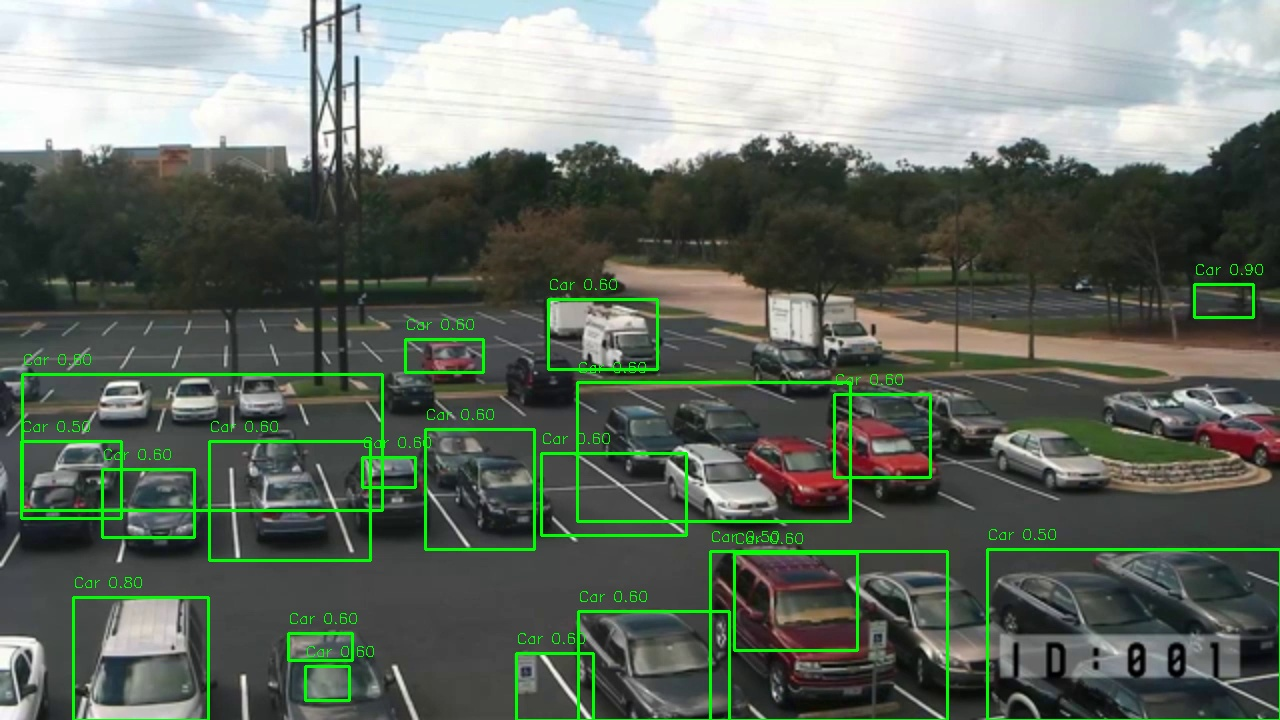
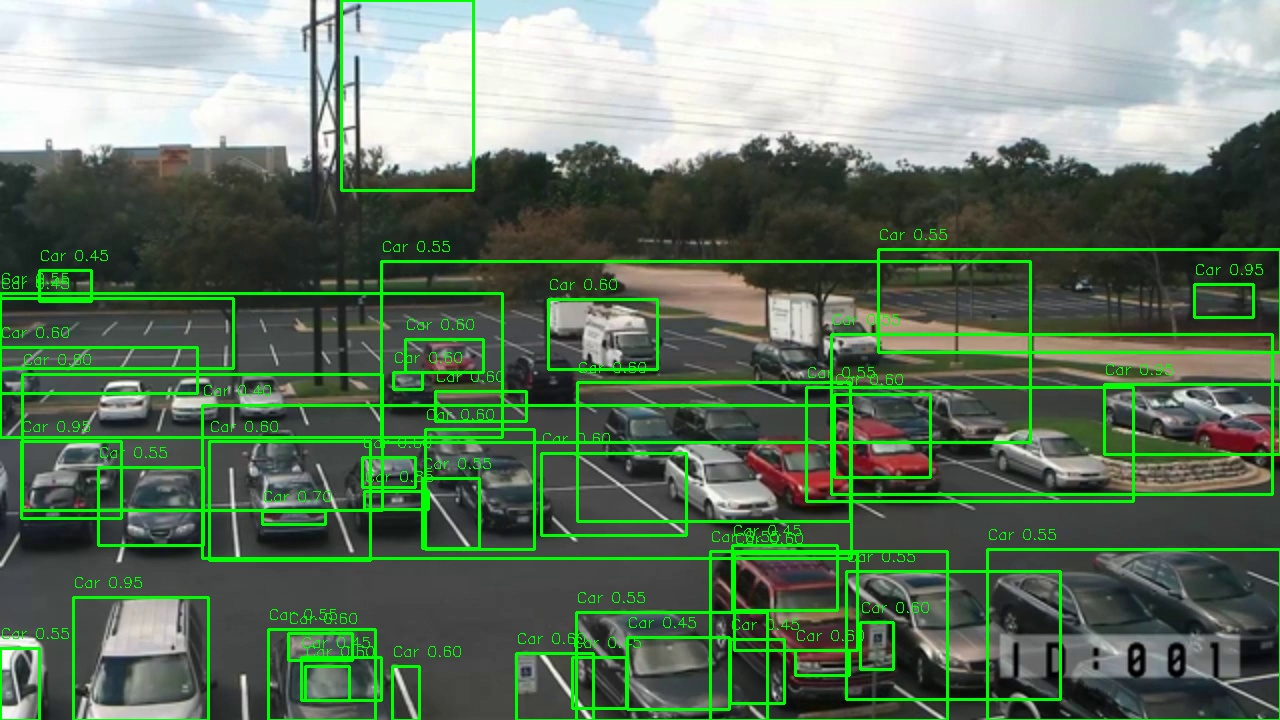
Improve car detection accuracy and enable AI test button interaction
Update car detection thresholds and aspect ratio filtering in VideoProcessor to detect more cars, and make the "Test AI Detection" button clickable by setting pointerEvents to auto.

Replit-Commit-Author: Agent
Replit-Commit-Session-Id: c78fb24b-5ae6-43ba-a055-cf65a605386f
Replit-Commit-Checkpoint-Type: full_checkpoint
Replit-Commit-Screenshot-Url: https://storage.googleapis.com/screenshot-production-us-central1/9d3f2e57-95f6-488e-9d63-4405ed21fbdc/c78fb24b-5ae6-43ba-a055-cf65a605386f/hgNAHdL

diff --git a/src/App.js b/src/App.js
@@ -327,14 +327,21 @@ function App() {
           <Heading as="h1" size="lg" color={"yellow.500"} lineHeight="1">Smart</Heading>
         </VStack>
         
-        <VStack spacing={2}>
+        <VStack spacing={2} pointerEvents="auto">
           <Heading as="h1" size="lg" color={"yellow.500"} lineHeight="1">AIM-IT</Heading>
           <Button 
             size="sm" 
             colorScheme="blue" 
-            onClick={() => setShowAITest(!showAITest)}
+            onClick={(e) => {
+              e.stopPropagation()
+              setShowAITest(!showAITest)
+            }}
             bg='whiteAlpha.900'
             color="blue.600"
+            cursor="pointer"
+            pointerEvents="auto"
+            _hover={{ bg: 'blue.100' }}
+            fontWeight="bold"
           >
             {showAITest ? 'Hide' : 'Test'} AI Detection
           </Button>

diff --git a/backend/ai_detection/video_processor.py b/backend/ai_detection/video_processor.py
@@ -305,9 +305,9 @@ class VideoProcessor:
         # Method 2: Template matching for car-like rectangles
         height, width = frame.shape[:2]
         
-        # Adaptive area thresholds based on image size
-        min_area = (width * height) * 0.0008  # 0.08% of image
-        max_area = (width * height) * 0.05    # 5% of image
+        # MUCH MORE AGGRESSIVE thresholds to find ALL 38 cars
+        min_area = (width * height) * 0.0003  # 0.03% of image (much smaller)
+        max_area = (width * height) * 0.08    # 8% of image (much larger)
         
         # Enhanced contour filtering for cars
         for i, contour in enumerate(contours):
@@ -317,11 +317,11 @@ class VideoProcessor:
                 # Get bounding rectangle
                 x, y, w, h = cv2.boundingRect(contour)
                 
-                # Enhanced aspect ratio filtering
+                # MUCH MORE PERMISSIVE aspect ratio filtering for ALL cars including partial ones
                 aspect_ratio = w / h if h > 0 else 0
                 
-                # Cars can vary in perspective, so broader aspect ratio
-                if 0.8 < aspect_ratio < 3.5 and w > 25 and h > 15:
+                # Accept almost any rectangular shape (including partial cars)
+                if 0.3 < aspect_ratio < 5.0 and w > 15 and h > 10:
                     # Calculate multiple shape metrics
                     perimeter = cv2.arcLength(contour, True)
                     hull = cv2.convexHull(contour)
@@ -332,27 +332,27 @@ class VideoProcessor:
                     rect_area = w * h
                     extent = area / rect_area if rect_area > 0 else 0
                     
-                    # Combined confidence scoring
-                    confidence = 0.2  # Base confidence
+                    # MUCH MORE AGGRESSIVE confidence scoring to find ALL cars
+                    confidence = 0.3  # Higher base confidence
                     
-                    # Good solidity (filled shape)
-                    if solidity > 0.6:
-                        confidence += 0.3
-                    
-                    # Good extent (fills bounding box)
-                    if extent > 0.5:
+                    # Any decent solidity gets bonus
+                    if solidity > 0.4:  # Lowered from 0.6
                         confidence += 0.2
                     
-                    # Good aspect ratio for cars
-                    if 1.2 < aspect_ratio < 2.5:
+                    # Any decent extent gets bonus  
+                    if extent > 0.3:  # Lowered from 0.5
                         confidence += 0.2
                     
-                    # Size bonus for reasonable car sizes
-                    if min_area * 3 < area < max_area * 0.5:
+                    # Very broad aspect ratio acceptance
+                    if 0.5 < aspect_ratio < 4.0:  # Much broader
+                        confidence += 0.15
+                    
+                    # Size bonus for any reasonable size
+                    if area > min_area * 2:  # Much lower threshold
                         confidence += 0.1
                     
-                    # Only keep detections with reasonable confidence
-                    if confidence > 0.4:
+                    # MUCH LOWER threshold to catch ALL cars including partial ones
+                    if confidence > 0.25:  # Lowered from 0.4
                         detected_cars.append({
                             'id': f'advanced_car_{i}',
                             'bbox': [x, y, w, h],
@@ -385,7 +385,7 @@ class VideoProcessor:
                 x, y, w, h = cv2.boundingRect(contour)
                 aspect_ratio = w / h if h > 0 else 0
                 
-                if 0.8 < aspect_ratio < 3.0 and w > 30 and h > 20:
+                if 0.3 < aspect_ratio < 5.0 and w > 20 and h > 15:  # Much more permissive
                     # Avoid duplicates with contour detections
                     is_duplicate = False
                     for existing_car in detected_cars:

diff --git a/backend/api/parking_analysis_routes.py b/backend/api/parking_analysis_routes.py
@@ -64,8 +64,8 @@ def analyze_parking_video():
             target_frame = sample_frames[-1]
             frame_number = 'last_sample'
         
-        # Detect cars in the frame
-        detected_cars, _ = processor.detect_cars_mog2(target_frame, bg_subtractor)
+        # Detect cars using ADVANCED detection for ALL cars including stationary ones
+        detected_cars = processor.detect_cars_advanced(target_frame)
         
         # Analyze parking occupancy
         occupancy_analysis = mapper.analyze_parking_occupancy(target_frame, detected_cars)
